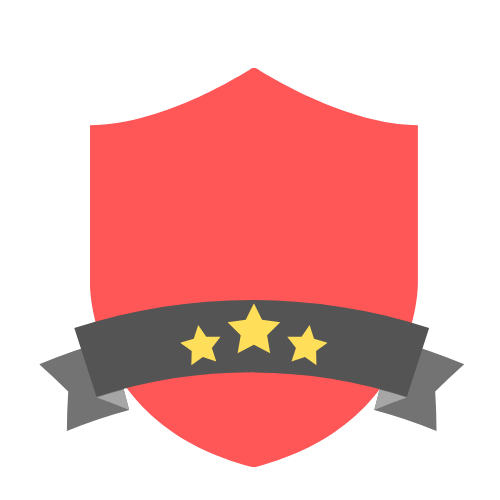
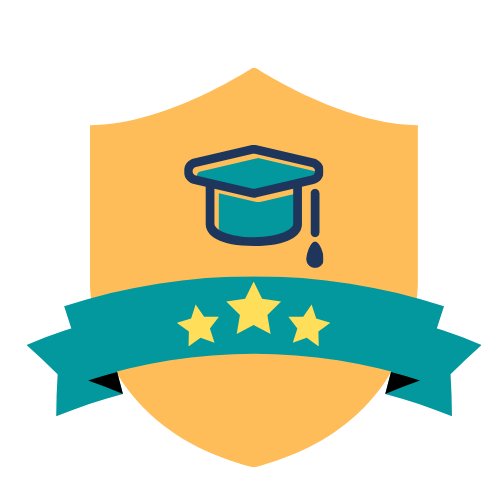
Formulário com as Categorias

diff --git a/src/main/resources/templates/badgeform.html b/src/main/resources/templates/badgeform.html
@@ -69,6 +69,19 @@
 
             </div>
 
+            <div class="form-group" th:classappend="${#fields.hasErrors('category')} ? 'has-error' : ''">
+                <label for="category" class="col-sm-5 control-label">Categoria:</label>
+                <div class="col-sm-3">
+                    <select th:field="*{category}" class="form-control" id="category">
+                        <option value="Soft" th:selected="${badgeForm.validacao=='Externa'}">Soft</option>
+                        <option value="Hybrid" th:selected="${badgeForm.validacao=='Interna'}">Hybrid</option>
+                        <option value="Hard" th:selected="${badgeForm.validacao=='Hard'}">Hard</option>
+                    </select>
+                    <!-- <p class="help-block" th:if="${#fields.hasErrors('validacao')}" th:errors="*{validacao}">Error</p>
+                     <p class="help-block" th:if="${!#fields.hasErrors('validacao')}" >Escolha uma das opções</p>-->
+                </div>
+            </div>
+
             <div class="form-group" th:classappend="${#fields.hasErrors('validacao')} ? 'has-error' : ''">
                 <label for="validacao" class="col-sm-5 control-label">Validação:</label>
                 <div class="col-sm-3">

diff --git a/src/main/resources/templates/badgecreated.html b/src/main/resources/templates/badgecreated.html
@@ -29,7 +29,7 @@
         <!--/*@thymesVar id="badgeForm" type="pt.ulusofona.badges.forms.BadgeForm"*/-->
 
         <figure>
-            <img  th:src=" @{/img/badge2.png} "  class="rounded float-left" alt="polyglota" width="270" height="270"/>
+            <img  th:src=" @{/img/badge.png} "  class="rounded float-left" alt="polyglota" width="270" height="270"/>
             <figcaption >
                 <p th:text=" 'Nome: ' + ${badgeForm.name}"></p>
                 <div class="row">
@@ -38,6 +38,7 @@
                     </div>
                 </div>
                 <p th:text=" 'Ano Curricular: ' + ${badgeForm.year}"></p>
+                <p th:text="'Categoria: ' + ${badgeForm.category} + ' skills'"></p>
                 <p th:text=" 'Validação: ' + ${badgeForm.validacao}"></p>
 
                 <!--/*@thymesVar id="badgeForm" type="pt.ulusofona.badges.forms.BadgeForm"*/-->

diff --git a/src/main/resources/templates/listOfAllBadges.html b/src/main/resources/templates/listOfAllBadges.html
@@ -29,13 +29,12 @@
     <tr th:if="${badges.size() == 0}">
         <td colspan="2"> Sem Badges</td>
         <p th:text=" 'Número de Badges: ' + ${badges.size()}"></p>
-        <!--<img th:src="@{/img/badge1.png}" class="rounded float-left" alt="polyglota" width="304" height="304"/>-->
     </tr>
     <h4 style="margin-left: 30px" th:text=" 'Badges Disponíveis: ' + ${badges.size()}"></h4>
     <tr th:each="badge : ${badges}">
         <!--        <td><span th:text="${badge.name}">Nome: </span></td>-->
         <figure>
-            <img th:src=" @{/img/badge2.png} "  class="rounded float-left" alt="polyglota" width="200" height="200"/>
+            <img th:src=" @{/img/badge.png} "  class="rounded float-left" alt="polyglota" width="200" height="200"/>
             <figcaption ><span th:text="${badge.name}">Nome: </span></figcaption>
         </figure>
     </tr>

diff --git a/src/main/resources/templates/listOfBadges.html b/src/main/resources/templates/listOfBadges.html
@@ -28,13 +28,12 @@
     <tr th:if="${badges.size() == 0}">
         <td colspan="2"> Sem Badges</td>
         <p th:text=" 'Número de Badges: ' + ${badges.size()}"></p>
-        <!--<img th:src="@{/img/badge1.png}" class="rounded float-left" alt="polyglota" width="304" height="304"/>-->
     </tr>
     <tr th:each="badge : ${badges}">
         <!--       (id=${badge.id}) <td><span th:text="${badge.name}">Nome: </span></td>-->
         <figure>
             <a th:href="@{/teacher/badgee/}">
-                <img th:src=" @{/img/badge2.png} "  class="rounded float-left" alt="polyglota" width="230" height="230"/>
+                <img th:src=" @{/img/badge.png} "  class="rounded float-left" alt="polyglota" width="230" height="230"/>
             </a>
             <figcaption ><span th:text="${badge.name}">Nome: </span></figcaption>
 

diff --git a/src/main/kotlin/pt/ulusofona/badges/forms/BadgeForm.kt b/src/main/kotlin/pt/ulusofona/badges/forms/BadgeForm.kt
@@ -1,5 +1,6 @@
 package pt.ulusofona.badges.forms
 
+import pt.ulusofona.badges.dao.Category
 import pt.ulusofona.badges.dao.Teacher
 import pt.ulusofona.badges.dao.Validacao
 import pt.ulusofona.badges.dao.Year
@@ -19,6 +20,8 @@ data class BadgeForm (
         var LEIRT : Boolean = false,
         @field:NotNull(message = "Erro:Subject must not be empty")
         var LIG : Boolean = false,
+        @field:NotNull(message = "Error: Category must not be empty")
+        var category: Category? = null,
         @field:NotEmpty(message = "Descrição Obrigatória")
         var description : String? = null,
         @field:NotEmpty(message="Campo Obrigatório")

diff --git a/src/main/kotlin/pt/ulusofona/badges/dao/Badge.kt b/src/main/kotlin/pt/ulusofona/badges/dao/Badge.kt
@@ -14,6 +14,10 @@ enum class Curso{
     LEI, LEIRT, LIG
 }
 
+enum class Category{
+        Soft, Hybrid, Hard
+}
+
 @Entity
 data class Badge (
         @Id @GeneratedValue
@@ -33,6 +37,9 @@ data class Badge (
         var subject : String? = null,*/
         @Column(nullable = false)
         var year : Year = Year.Todos,
+
+        @Column(nullable = false)
+        var category: Category = Category.Soft,
 
         @Column(nullable = false)
         var description : String? = null,

diff --git a/src/main/kotlin/pt/ulusofona/badges/controllers/TeacherController.kt b/src/main/kotlin/pt/ulusofona/badges/controllers/TeacherController.kt
@@ -59,6 +59,7 @@ class TeacherController(
                 LEI = badgeForm.LEI,
                 LEIRT =  badgeForm.LEIRT,
                 LIG = badgeForm.LIG,
+                category = badgeForm.category!!,
                 description = badgeForm.description,
                 toWin = badgeForm.toWin,
                 validacao = badgeForm.validacao!!)
